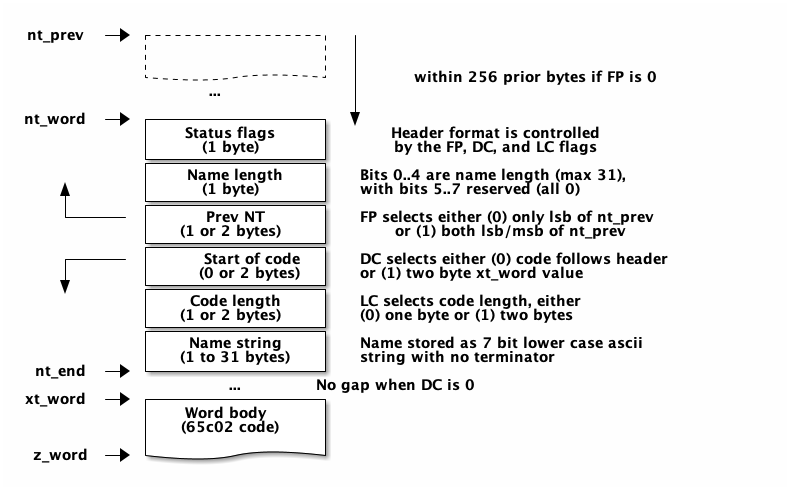
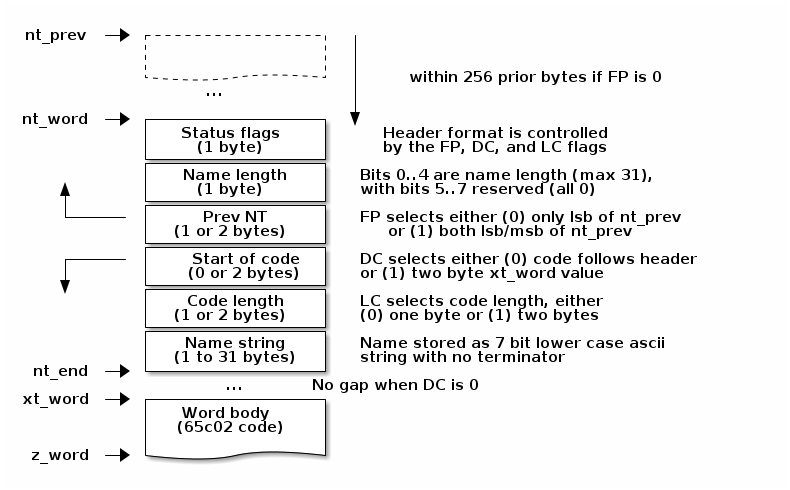
Merging #198 bugifx for SEE

diff --git a/docs/WORDLIST.md b/docs/WORDLIST.md
@@ -7,40 +7,30 @@ RTS instruction at the end of each word.
 
 | NAME | FORTH WORD | SOURCE | BYTES | STATUS |
 | :--- | :--------- | :---   | ----: | :----  |
-| DISASM | `disasm` | Tali Forth | 6 | **auto** |
 | COLD | `cold` | Tali Forth | 146 | tested |
 | ABORT | `abort` | ANS core | 75 | tested |
 | QUIT | `quit` | ANS core | 73 | tested |
-| ALLOW_NATIVE | `allow-native` | Tali Forth | 9 | **auto** |
-| ALWAYS_NATIVE | `always-native` | Tali Forth | 11 | **auto** |
-| BELL | `bell` | Tali Forth | 5 | **auto** |
-| BOUNDS | `bounds` | Gforth | 24 | **auto** |
-| CLEAVE | `cleave` | Tali Forth | 43 | **auto** |
-| DIGIT_QUESTION | `digit?` | Tali Forth | 24 | **auto** |
-| EXECUTE_PARSING | `execute-parsing` | Gforth | 38 | **auto** |
-| FIND_NAME | `find-name` | Gforth | 65 | **auto** |
-| HAVEKEY | `havekey` | Tali Forth | 5 | tested |
-| HEXSTORE | `hexstore` | Tali | 82 | **auto** |
-| INPUT | `input` | Tali Forth | 5 | tested |
-| INPUT_TO_R | `input>r` | Tali Forth | 21 | tested |
-| INT_TO_NAME | `int>name` | Tali Forth | 34 | **auto** |
-| LATESTNT | `latestnt` | Tali Forth | 10 | **auto** |
-| LATESTXT | `latestxt` | Gforth | 6 | **auto** |
-| NAME_TO_INT | `name>int` | Gforth | 18 | tested |
-| NAME_TO_STRING | `name>string` | Gforth | 34 | tested |
-| NC_LIMIT | `nc-limit` | Tali Forth | 5 | tested |
-| NEVER_NATIVE | `never-native` | Tali Forth | 11 | **auto** |
-| NOT_ROT | `-rot` | Gforth | 27 | **auto** |
-| NUMBER | `number` | Tali Forth | 249 | **auto** |
-| ONE | `1` | Tali Forth | 8 | **auto** |
-| OUTPUT | `output` | Tali Forth | 5 | tested |
-| R_TO_INPUT | `r>input` | Tali Forth | 23 | tested |
-| SPLIT | `split` | Gforth | 43 | **auto** |
-| STRIP_UNDERFLOW | `strip-underflow` | Tali Forth | 5 | tested |
-| TWO | `2` | Tali Forth | 8 | **auto** |
-| USERADDR | `useraddr` | Tali Forth | 10 | tested |
-| WORDSIZE | `wordsize` | Tali Forth | 39 | **auto** |
-| ZERO | `0` | Tali Forth | 6 | **auto** |
+| BLK | `block` | ANS block | 5 | **auto** |
+| BLKBUFFER | `blkbuffer` | Tali block | 5 | **auto** |
+| BLOCK | `block` | ANS block | 76 | **auto** |
+| BLOCK_C65_INIT | `block-c65-init` | Tali block | missing | **auto** |
+| BLOCK_RAMDRIVE_INIT | `block-ramdrive-init` | Tali block | 291 | **auto** |
+| BLOCK_READ | `block-read` | Tali block | 8 | **auto** |
+| BLOCK_READ_VECTOR | `block-read-vector` | Tali block | 5 | **auto** |
+| BLOCK_WRITE | `block-write` | Tali block | 8 | **auto** |
+| BLOCK_WRITE_VECTOR | `block-write-vector` | Tali block | 5 | **auto** |
+| BUFFBLOCKNUM | `buffblocknum` | Tali block | 5 | **auto** |
+| BUFFER | `buffer` | ANS block | 42 | **auto** |
+| BUFFSTATUS | `buffstatus` | Tali block | 5 | **auto** |
+| EMPTY_BUFFERS | `empty-buffers` | ANS block ext | 6 | tested |
+| FLUSH | `flush` | ANS block | 9 | **auto** |
+| LIST | `list` | ANS block ext | 12 | tested |
+| LOAD | `load` | ANS block | 56 | **auto** |
+| SAVE_BUFFERS | `save-buffers` | ANS block | 26 | tested |
+| SCR | `scr` | ANS block ext | 5 | **auto** |
+| THRU | `thru` | ANS block ext | 65 | tested |
+| UPDATE | `update` | ANS block | 8 | **auto** |
+| COMPILE_COMMA | `compile,` | ANS core ext | 158 | **auto** |
 | ABORT_QUOTE | `abort"` | ANS core | 8 | tested |
 | ABS | `abs` | ANS core | 20 | **auto** |
 | ACCEPT | `accept` | ANS core | 248 | **auto** |
@@ -146,8 +136,8 @@ RTS instruction at the end of each word.
 | PAD | `pad` | ANS core ext | 15 | **auto** |
 | PAGE | `page` | ANS facility | 29 | **auto** |
 | PAREN | `(` | ANS core | 11 | **auto** |
-| PARSE_NAME | `parse-name` | ANS core ext | 238 | **auto** |
-| PARSE | `parse` | ANS core ext | 149 | tested |
+| PARSE_NAME | `parse-name` | ANS core ext | 234 | **auto** |
+| PARSE | `parse` | ANS core ext | 146 | tested |
 | PICK | `pick` | ANS core ext | 16 | **auto** |
 | PLUS | `+` | ANS core | 18 | **auto** |
 | PLUS_STORE | `+!` | ANS core | 26 | **auto** |
@@ -219,8 +209,7 @@ RTS instruction at the end of each word.
 | ZERO_GREATER | `0>` | ANS core ext | 19 | **auto** |
 | ZERO_LESS | `0<` | ANS core | 15 | **auto** |
 | ZERO_UNEQUAL | `0<>` | ANS core ext | 15 | **auto** |
-| COMPILE_COMMA | `compile,` | ANS core ext | 158 | **auto** |
-| ED | `ed:` | Tali Forth | 3 | *fragment* |
+| DISASM | `disasm` | Tali Forth | 6 | **auto** |
 | D_MINUS | `d-` | ANS double | 32 | **auto** |
 | D_PLUS | `d+` | ANS double | 32 | **auto** |
 | D_TO_S | `d>s` | ANS double | 5 | **auto** |
@@ -234,46 +223,57 @@ RTS instruction at the end of each word.
 | TWO_VARIABLE | `2variable` | ANS double | 12 | **auto** |
 | UD_DOT | `ud.` | Tali double | 18 | **auto** |
 | UD_DOT_R | `ud.r` | Tali double | 30 | **auto** |
-| BYE | `bye` | ANS tools ext | 3 | tested |
-| DOT_S | `.s` | ANS tools | 62 | **auto** |
-| DUMP | `dump` | ANS tools | 125 | **auto** |
-| QUESTION | `?` | ANS tools | 6 | **auto** |
-| SEE | `see` | ANS tools | 242 | **auto** |
-| WORDS | `words` | ANS tools | 93 | **auto** |
-| BLK | `block` | ANS block | 5 | **auto** |
-| BLKBUFFER | `blkbuffer` | Tali block | 5 | **auto** |
-| BLOCK | `block` | ANS block | 76 | **auto** |
-| BLOCK_C65_INIT | `block-c65-init` | Tali block | missing | **auto** |
-| BLOCK_RAMDRIVE_INIT | `block-ramdrive-init` | Tali block | 291 | **auto** |
-| BLOCK_READ | `block-read` | Tali block | 8 | **auto** |
-| BLOCK_READ_VECTOR | `block-read-vector` | Tali block | 5 | **auto** |
-| BLOCK_WRITE | `block-write` | Tali block | 8 | **auto** |
-| BLOCK_WRITE_VECTOR | `block-write-vector` | Tali block | 5 | **auto** |
-| BUFFBLOCKNUM | `buffblocknum` | Tali block | 5 | **auto** |
-| BUFFER | `buffer` | ANS block | 42 | **auto** |
-| BUFFSTATUS | `buffstatus` | Tali block | 5 | **auto** |
-| EMPTY_BUFFERS | `empty-buffers` | ANS block ext | 6 | tested |
-| FLUSH | `flush` | ANS block | 9 | **auto** |
-| LIST | `list` | ANS block ext | 12 | tested |
-| LOAD | `load` | ANS block | 56 | **auto** |
-| SAVE_BUFFERS | `save-buffers` | ANS block | 26 | tested |
-| SCR | `scr` | ANS block ext | 5 | **auto** |
-| THRU | `thru` | ANS block ext | 65 | tested |
-| UPDATE | `update` | ANS block | 8 | **auto** |
-| CMOVE | `cmove` | ANS string | 58 | **auto** |
-| CMOVE_UP | `cmove>` | ANS string | 58 | **auto** |
-| COMPARE | `compare` | ANS string | 100 | **auto** |
-| MINUS_LEADING | `-leading` | Tali String | 21 | **auto** |
-| MINUS_TRAILING | `-trailing` | ANS string | 39 | **auto** |
-| SEARCH | `search` | ANS string | 158 | **auto** |
-| SLASH_STRING | `/string` | ANS string | 31 | **auto** |
-| SLITERAL | `sliteral` | ANS string | 28 | **auto** |
+| ED | `ed:` | Tali Forth | 3 | *fragment* |
 | EDITOR_ENTER_SCREEN | `enter-screen` | Tali Editor | 24 | **auto** |
 | EDITOR_ERASE_SCREEN | `erase-screen` | Tali Editor | 17 | tested |
 | EDITOR_EL | `el` | Tali Editor | 13 | tested |
 | EDITOR_L | `l` | Tali Editor | 93 | tested |
 | EDITOR_LINE | `line` | Tali Editor | 24 | tested |
 | EDITOR_O | `o` | Tali Editor | 61 | tested |
+| CMOVE | `cmove` | ANS string | 58 | **auto** |
+| CMOVE_UP | `cmove>` | ANS string | 58 | **auto** |
+| COMPARE | `compare` | ANS string | 100 | **auto** |
+| MINUS_LEADING | `-leading` | Tali String | 20 | **auto** |
+| MINUS_TRAILING | `-trailing` | ANS string | 39 | **auto** |
+| SEARCH | `search` | ANS string | 158 | **auto** |
+| SLASH_STRING | `/string` | ANS string | 31 | **auto** |
+| SLITERAL | `sliteral` | ANS string | 28 | **auto** |
+| ALLOW_NATIVE | `allow-native` | Tali Forth | 9 | **auto** |
+| ALWAYS_NATIVE | `always-native` | Tali Forth | 11 | **auto** |
+| BELL | `bell` | Tali Forth | 5 | **auto** |
+| BOUNDS | `bounds` | Gforth | 24 | **auto** |
+| CLEAVE | `cleave` | Tali Forth | 42 | **auto** |
+| DIGIT_QUESTION | `digit?` | Tali Forth | 24 | **auto** |
+| EXECUTE_PARSING | `execute-parsing` | Gforth | 38 | **auto** |
+| FIND_NAME | `find-name` | Gforth | 65 | **auto** |
+| HAVEKEY | `havekey` | Tali Forth | 5 | tested |
+| HEXSTORE | `hexstore` | Tali | 82 | **auto** |
+| INPUT | `input` | Tali Forth | 5 | tested |
+| INPUT_TO_R | `input>r` | Tali Forth | 21 | tested |
+| INT_TO_NAME | `int>name` | Tali Forth | 34 | **auto** |
+| LATESTNT | `latestnt` | Tali Forth | 10 | **auto** |
+| LATESTXT | `latestxt` | Gforth | 6 | **auto** |
+| NAME_TO_INT | `name>int` | Gforth | 18 | tested |
+| NAME_TO_STRING | `name>string` | Gforth | 34 | tested |
+| NC_LIMIT | `nc-limit` | Tali Forth | 5 | tested |
+| NEVER_NATIVE | `never-native` | Tali Forth | 11 | **auto** |
+| NOT_ROT | `-rot` | Gforth | 27 | **auto** |
+| NUMBER | `number` | Tali Forth | 249 | **auto** |
+| ONE | `1` | Tali Forth | 8 | **auto** |
+| OUTPUT | `output` | Tali Forth | 5 | tested |
+| R_TO_INPUT | `r>input` | Tali Forth | 23 | tested |
+| SPLIT | `split` | Gforth | 43 | **auto** |
+| STRIP_UNDERFLOW | `strip-underflow` | Tali Forth | 5 | tested |
+| TWO | `2` | Tali Forth | 8 | **auto** |
+| USERADDR | `useraddr` | Tali Forth | 10 | tested |
+| WORDSIZE | `wordsize` | Tali Forth | 39 | **auto** |
+| ZERO | `0` | Tali Forth | 6 | **auto** |
+| BYE | `bye` | ANS tools ext | 3 | tested |
+| DOT_S | `.s` | ANS tools | 62 | **auto** |
+| DUMP | `dump` | ANS tools | 125 | **auto** |
+| QUESTION | `?` | ANS tools | 6 | **auto** |
+| SEE | `see` | ANS tools | 242 | **auto** |
+| WORDS | `words` | ANS tools | 93 | **auto** |
 | ALSO | `also` | ANS search ext | 15 | **auto** |
 | ASSEMBLER_WORDLIST | `assembler-wordlist` | Tali Assembler | 8 | tested |
 | DEFINITIONS | `definitions` | ANS search | 8 | **auto** |
@@ -283,7 +283,7 @@ RTS instruction at the end of each word.
 | GET_CURRENT | `get-current` | ANS search | 7 | **auto** |
 | GET_ORDER | `get-order` | ANS search | 34 | **auto** |
 | ONLY | `only` | ANS search ext | 6 | **auto** |
-| ORDER | `order` | ANS core | 42 | **auto** |
+| ORDER | `order` | ANS core | 41 | **auto** |
 | PREVIOUS | `previous` | ANS search ext | 12 | **auto** |
 | ROOT_WORDLIST | `root-wordlist` | Tali Editor | 4 | tested |
 | SEARCH_WORDLIST | `search-wordlist` | ANS search | 96 | **auto** |
